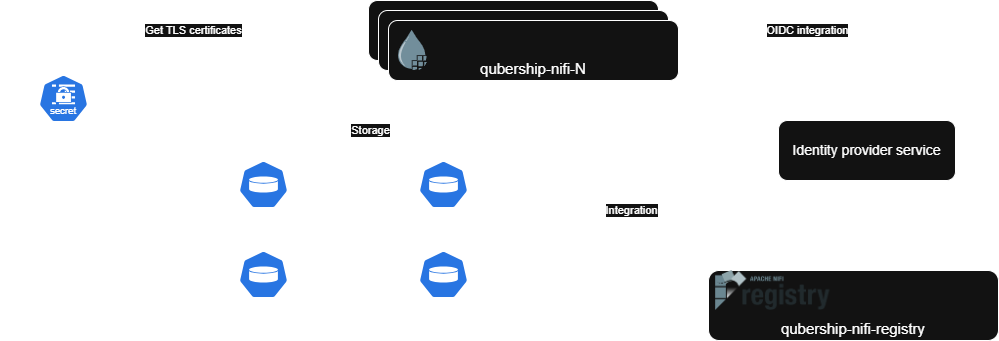
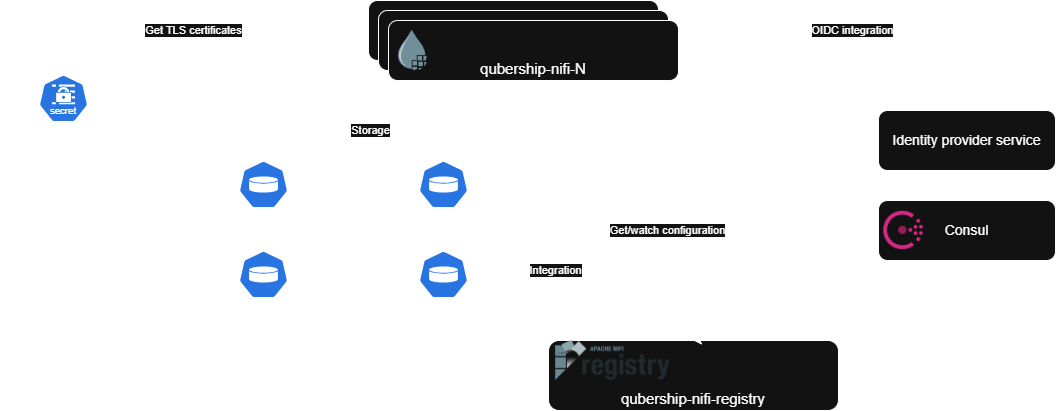
docs: update documentation

diff --git a/README.md b/README.md
@@ -6,7 +6,7 @@ Compared with Apache NiFi it supports:
 1. additional environment variables for configuration
 2. integration with Consul as configuration source for logging levels and other configuration properties
 3. automated NiFi configuration restore: configuration version to restore can be set via Consul parameter
-4. additional processors for various tasks not supported in opensource Apache NiFi: bulk DB operations, complex JSON extract from DB, rules-based validation
+4. additional processors for various tasks not supported in open-source Apache NiFi: bulk DB operations, complex JSON extract from DB, rules-based validation
 5. reporting tasks for additional monitoring of NiFi processes.
 
 ## Status
@@ -24,13 +24,14 @@ Compared with Apache NiFi it supports:
 qubership-nifi is scalable and configurable dataflow platform.
 Depending on configuration, it relies on:
 1. externally provided TLS certificates: TLS is required for security to be enabled, so TLS certificates are need for all configurations, except may be configuration for local development
-2. identity provider service: required for OIDC integration, if it's enabled
-3. several file-system based repositories:
+2. Consul service: used as property source, as well as for configuring logging levels
+3. identity provider service: required for OIDC integration, if it's enabled
+4. several file-system based repositories:
    1. Persistent Configuration (Database Repository and Flow Configuration). See [Administrator Guide](docs/administrator-guide.md) for more details.
    2. FlowFile Repository. See [Administrator Guide](docs/administrator-guide.md) for more details.
    3. Content Repository. See [Administrator Guide](docs/administrator-guide.md) for more details.
    4. Provenance Repository. See [Administrator Guide](docs/administrator-guide.md) for more details.
-4. qubership-nifi-registry: for version control of NiFi flows, as well as export/import for versioned flows.
+5. qubership-nifi-registry: for version control of NiFi flows, as well as export/import for versioned flows.
 
 qubership-nifi can be started in single node (non-cluster) or cluster configuration.
 In clustered configuration each cluster node has its own persistent volumes and secrets holding TLS certificates.

diff --git a/docs/administrator-guide.md b/docs/administrator-guide.md
@@ -118,7 +118,7 @@ Steps below describe restore process:
 1. Set up version to restore in Consul parameter `nifi-restore-version` located in `config/${NAMESPACE}/qubership-nifi`. The parameter must contain name of archived configuration to restore from, e.g. `20250115T120000+0000_flow.json.gz`. The list of archived configuration versions is printed in logs during service startup.
 2. Restart qubership-nifi container.
 
-On startup qubership-nifi does the following:
+On startup qubership-nifi performs the following:
 1. Checks if `nifi-restore-version` parameter is set
-2. If parameter is set and specified archive file does not exist, then prints warning in logs and continues with normal startup using current configuration
-3. If parameter is set and specified archive file exists, then it moves current configuration to archive and replaces current configuration with the specified archived version. Once it's done, `nifi-restore-version` parameter is automatically cleared in Consul.
+2. If parameter is set and the specified archive file does not exist, then prints warning in logs and continues with normal startup using current configuration
+3. If parameter is set and the specified archive file exists, then it moves current configuration to archive and replaces current configuration with the specified archived version. Once it's done, the `nifi-restore-version` parameter is automatically cleared in Consul.
